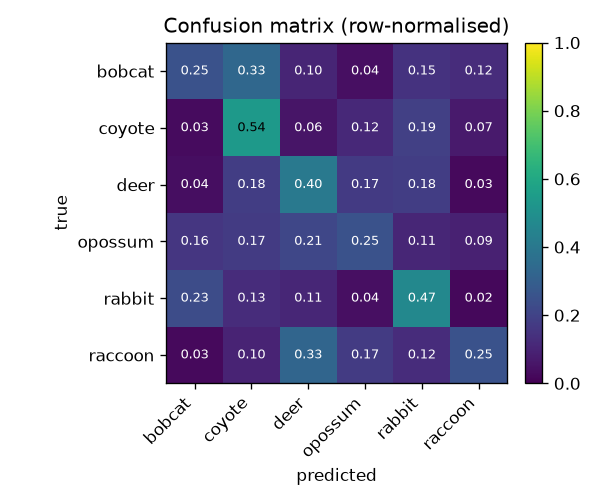
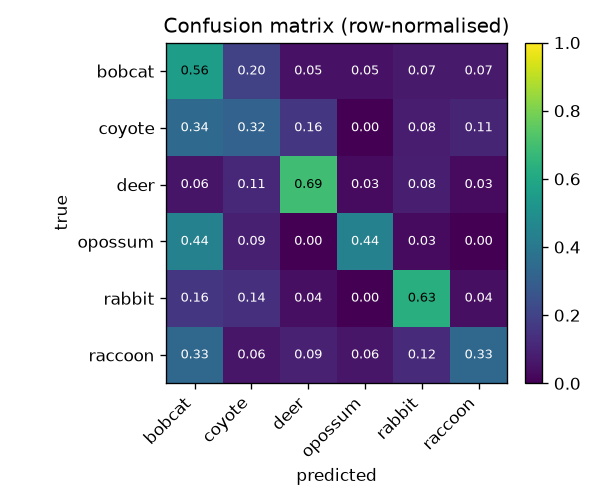
Update results and docs for dataset v3
Location-held-out accuracy is now 0.51 (vs same-location 0.61) - cropping to the
animal at load time cut the same-location advantage from 0.36 to 0.10, and lifted
generalisation to new sites from 0.37 to 0.51. Updates README results, dataset
description, methodology (deterministic/stratified sampling, non-destructive
storage, validation), and the experiment log.

diff --git a/README.md b/README.md
@@ -24,15 +24,27 @@ A ready-made subset is included in the repo at
 - 200 images per species (1,200 total)
 - every image is a genuine night infrared frame (checked to be grayscale)
 
-`scripts/build_night_wildlife.py` builds this subset. It keeps only night
-captures that are actually grayscale (real infrared), de-duplicates by capture
-sequence, spreads images across many camera sites, and **crops to the animal's
-bounding box** where CCT provides one (otherwise an aspect-preserving letterbox —
-never a blind centre-crop that could slice the animal out). Every image is
-recorded in [`data/night_wildlife/manifest.csv`](data/night_wildlife/manifest.csv)
-with its source id, original filename, class, camera location, sequence id,
-timestamp, split, and SHA-256 checksum, so the dataset is verifiable and the
-split reproducible.
+`scripts/build_night_wildlife.py` builds this subset. It:
+
+- keeps only night captures that are actually grayscale (real infrared),
+  single-species, and de-duplicated by capture sequence;
+- samples **deterministically** and **stratified across camera locations and
+  time** (round-robin over sites, spread across each site's date range) to reduce
+  selection bias — the committed build spans 35–75 locations and 18–36 months per
+  species;
+- stores the frame **uncropped** (only downscaled) and records the animal's
+  bounding box in the manifest; the crop to the animal is applied at *load* time
+  (`crop_to_bbox`, see `src/data.py`), so nothing is baked into the files;
+- reports every rejected/failed download with its id and reason
+  (`build_report.txt`) and wipes the output directory first so a re-run can't
+  leave stale files.
+
+Every image is recorded in
+[`data/night_wildlife/manifest.csv`](data/night_wildlife/manifest.csv) with its
+source id, original filename, class, camera location, sequence id, timestamp,
+month/season, bounding box, split, and SHA-256 checksum.
+`python scripts/validate_dataset.py` checks class balance, file integrity,
+split/location overlap, and manifest↔file consistency before training.
 
 **Split.** Frames from the same camera share backgrounds, so the split is
 **location-held-out**: whole camera sites go to a single split (train / val /
@@ -93,35 +105,34 @@ of training so the model cannot lean on backgrounds it has already seen.
 
 | Split | What it measures | Test acc | Macro F1 |
 |-------|------------------|----------|----------|
-| **Location-held-out** | generalisation to **new camera sites** (the honest number) | **0.37** | 0.35 |
-| Same-location (stratified) | preliminary — shares backgrounds with training | 0.73 | 0.73 |
+| **Location-held-out** | generalisation to **new camera sites** (the honest number) | **0.51** | 0.51 |
+| Same-location (stratified) | shares backgrounds with training | 0.61 | 0.61 |
 
-Random guessing with 6 classes is 0.17, so the model does learn something about
-the animals — but the drop from 0.73 to **0.37** when locations are held out shows
-that most of the same-location score came from **recognising the background, not
-the animal**. The location-held-out 0.37 is the number to trust; the 0.73 should
-be read only as a same-location upper bound.
+Random guessing with 6 classes is 0.17. Because the model is trained on the
+animal crop rather than the whole frame, the same-location advantage is small
+(0.61 vs **0.51**) — i.e. the score reflects the animal, not the background. The
+location-held-out **0.51** is the number to trust.
 
-Per-species, location-held-out split (test = 356 images):
+Per-species, location-held-out split (test = 233 images):
 
 | Species  | Precision | Recall | F1   | Test images |
 |----------|-----------|--------|------|-------------|
-| coyote   | 0.41      | 0.54   | 0.47 | 69 |
-| deer     | 0.42      | 0.40   | 0.41 | 77 |
-| rabbit   | 0.32      | 0.47   | 0.38 | 47 |
-| opossum  | 0.37      | 0.25   | 0.30 | 75 |
-| raccoon  | 0.32      | 0.25   | 0.28 | 40 |
-| bobcat   | 0.29      | 0.25   | 0.27 | 48 |
+| deer     | 0.66      | 0.69   | 0.68 | 36 |
+| rabbit   | 0.70      | 0.63   | 0.66 | 51 |
+| opossum  | 0.75      | 0.44   | 0.56 | 34 |
+| bobcat   | 0.32      | 0.56   | 0.41 | 41 |
+| raccoon  | 0.52      | 0.33   | 0.41 | 33 |
+| coyote   | 0.33      | 0.32   | 0.32 | 38 |
 
 ![training curves](docs/demo_results/training_curves.png)
 ![confusion matrix](docs/demo_results/confusion_matrix.png)
 
 ## Known limitations
 
-- The 0.37 is from a **small** dataset (200 images/species) with only six species;
+- The 0.51 is from a **small** dataset (200 images/species) with only six species;
   behaviour on rare species and at larger scale is untested.
-- Bounding boxes exist for only ~28% of the frames; the rest use a whole-frame
-  letterbox, so some test images still contain background around the animal.
+- Bounding boxes cover ~50% of the frames; the rest are classified from the whole
+  (letterboxed) frame, so some test images still include background.
 - The YOLOv8 detection stage in `src/detect.py` is optional and **not yet part of
   the reported results** (see
   [Issue #2](https://github.com/srivanik8/final-project/issues/2)).

diff --git a/docs/METHODOLOGY.md b/docs/METHODOLOGY.md
@@ -14,27 +14,30 @@ mirror by `scripts/build_night_wildlife.py`.
 
 - labelled with one of six wild species — bobcat, coyote, raccoon, opossum,
   rabbit, deer;
+- **single-species** — frames annotated with more than one species are excluded
+  (this is single-label classification);
 - captured at **night** (local capture hour 19:00–06:59, from the `date_captured`
   field);
 - verified to be **grayscale infrared** — the mean HSV saturation of the
   downloaded image is below 6 (daytime colour frames sit around 80);
-- **de-duplicated by capture sequence** (`seq_id`): at most one frame per burst,
-  so near-identical frames don't inflate the dataset;
-- **spread across camera locations** — a per-location cap (default 20 images per
-  species per site) stops any single camera dominating a class, so the
-  location-held-out split below has enough distinct sites to work with (16–31
-  locations per species).
+- **de-duplicated by capture sequence** (`seq_id`): at most one frame per burst.
 
-**Cropping.** We do **not** blindly centre-crop, because that can slice the
-animal out of frame. Instead:
+**Deterministic, stratified sampling.** Candidates are chosen in a fixed order
+*before* any download, so filenames and which images are kept do not depend on
+which concurrent download finishes first (re-running with the same seed is
+byte-identical). Selection is stratified across **camera locations and time**:
+within each location the frames are sorted by date and sampled at even intervals
+across the whole range, then locations are visited round-robin. A per-location cap
+(default 20) stops any one site dominating a class. The committed build spans
+35–75 locations and 18–36 months per species.
 
-- if the CCT metadata provides a **bounding box** for the frame, we crop to it
-  (with 15% padding), then letterbox to 224×224;
-- otherwise we use an **aspect-preserving letterbox** — resize the whole frame so
-  the long side is 224 and pad the short side — so the animal is never cut and the
-  aspect ratio is never distorted.
-
-The committed subset is 200 images per species (1,200 total).
+**Non-destructive storage.** The downloaded frame is stored **uncropped** — only
+downscaled to `--store-size` (default 384 px long side) — as grayscale JPEG. The
+animal's bounding box is recorded in the manifest and the **crop is applied at
+load time** (`crop_to_bbox`, `src/data.py`): if a box exists the loader crops to
+it (15% padding); otherwise the whole frame is used. Nothing is baked into the
+files, so the crop strategy (box vs. whole frame) is a runtime choice and the
+originals are preserved. ~50% of the committed frames carry a bounding box.
 
 **Split — location-held-out.** Camera-trap frames from the same site share
 backgrounds, so a random split lets the model recognise the *location* instead of
@@ -42,15 +45,17 @@ the *animal*. `src/split.py` therefore assigns whole camera **locations** to a
 single split (70/15/15 by image count, targeted per species so every species
 appears in every split). No location — and therefore no background — is shared
 between train, validation and test. The assignment is deterministic given the
-seed and is recorded in the dataset manifest (below); `src/data.py` reads the
-split straight from the manifest. A stratified random split is still available
-(`--split-by`/`split_by="stratified"`) for comparison.
+seed and recorded in the manifest; `src/data.py` reads it. A stratified random
+split is still available (`--split-by stratified`) for comparison.
 
-**Manifest.** `scripts/build_night_wildlife.py` writes
-`data/night_wildlife/manifest.csv`, one row per image, recording: assigned split,
-class, saved filename, source CCT image id, original filename, camera location,
-sequence id, capture timestamp, whether a bounding box was used, and a SHA-256
-checksum. This makes the dataset verifiable and the experiment reproducible.
+**Manifest & validation.** `scripts/build_night_wildlife.py` writes
+`data/night_wildlife/manifest.csv`, one row per image: split, class, saved
+filename, source CCT image id, original filename, camera location, sequence id,
+timestamp, month, season, bounding box, whether a box exists, and a SHA-256
+checksum. It also writes `build_report.txt` logging every rejected/failed
+download with its id and reason. `scripts/validate_dataset.py` then checks class
+balance, file integrity (checksums + openability), split/location overlap, and
+manifest↔file consistency — run it before training.
 
 ## 2. Preprocessing and augmentation
 

diff --git a/docs/experiments.md b/docs/experiments.md
@@ -8,32 +8,33 @@ img/species, infrared night frames); ResNet-18; grayscale→RGB input; image siz
 224; batch size 32; AdamW lr 3e-4, weight decay 1e-4; cosine schedule; label
 smoothing 0.05; seed 42. "Split" = how train/val/test is partitioned.
 
-> **Dataset v2 (2026-07-21):** rebuilt with bounding-box cropping (letterbox
-> fallback), images spread across camera sites, and a manifest with a
-> location-grouped split. Rows below the divider use v2 and are the current
-> results. The two rows above the divider used dataset **v1** (whole-frame
-> centre-crop, random split) and are kept only for history — not comparable to v2.
+> **Dataset versions.** v1 = whole-frame centre-crop, random split (superseded).
+> v2 = bbox crop baked into files, location split. **v3 (current)** = deterministic
+> + location/time-stratified sampling, single-species only, frames stored
+> **uncropped** with the crop applied at load time, ~50% with bounding boxes, plus
+> a validated manifest. Only compare rows within the same version.
 
 | Date | Config | Split | Test acc | Macro F1 | Notes |
 |------|--------|-------|----------|----------|-------|
-| 2026-07-21 | v1 · pretrained, freeze `layer2`, 16 ep | stratified 70/15/15 | 0.772 | 0.771 | v1 dataset (centre-crop). Superseded. |
-| 2026-07-21 | v1 · from scratch, train all, 16 ep | stratified 70/15/15 | 0.622 | 0.617 | v1 ablation. Transfer learning +0.15. Superseded. |
+| 2026-07-21 | v1 · pretrained, freeze `layer2` | stratified | 0.772 | 0.771 | v1 (centre-crop). Superseded. |
+| 2026-07-21 | v1 · from scratch | stratified | 0.622 | 0.617 | v1 ablation (transfer learning +0.15). Superseded. |
+| 2026-07-21 | v2 · pretrained, freeze `layer2` | location-held-out | 0.368 | 0.351 | v2. Superseded by v3. |
+| 2026-07-21 | v2 · pretrained, freeze `layer2` | stratified | 0.733 | 0.729 | v2 same-location. Superseded. |
 | — | — | — | — | — | — |
-| 2026-07-21 | **v2 · pretrained, freeze `layer2`, 16 ep** | **location-held-out** | **0.368** | 0.351 | **Headline.** Honest generalisation to unseen sites. |
-| 2026-07-21 | v2 · pretrained, freeze `layer2`, 16 ep | stratified (same-location) | 0.733 | 0.729 | Same data, random split. The 0.73→0.37 gap = background reliance. |
+| 2026-07-21 | **v3 · pretrained, freeze `layer2`, 16 ep** | **location-held-out** | **0.506** | 0.505 | **Current headline.** Honest generalisation to unseen sites. |
+| 2026-07-21 | v3 · pretrained, freeze `layer2`, 16 ep | stratified (same-location) | 0.611 | 0.608 | Same data, random split. |
 
-The key v2 result: holding out camera locations drops accuracy from **0.73 to
-0.37** on identical data and settings — most of the same-location score was the
-model recognising backgrounds, not animals.
+Key v3 result: with the animal cropped at load time, the same-location advantage
+is only **0.61 vs 0.51** (gap 0.10, down from v2's 0.36). Cropping to the animal
+removed most of the background the model was exploiting, so it both generalises
+better to new sites (0.37 → **0.51**) and leaks less from same-location backgrounds.
 
 ## Planned runs
 
 - Linear probe (`--freeze-until all`) — how much do the frozen ImageNet features
   alone get us on the location-held-out split?
-- YOLOv8 detect-and-crop vs. full frame (Issue #2) — does detector cropping close
-  part of the location-held-out gap?
-- More images/species and more species, to test whether the 0.37 improves with
-  scale.
+- YOLOv8 detect-and-crop vs. manifest-bbox vs. full frame (Issue #2).
+- More images/species and more species, to test whether 0.51 improves with scale.
 
 ## How to reproduce a row
 